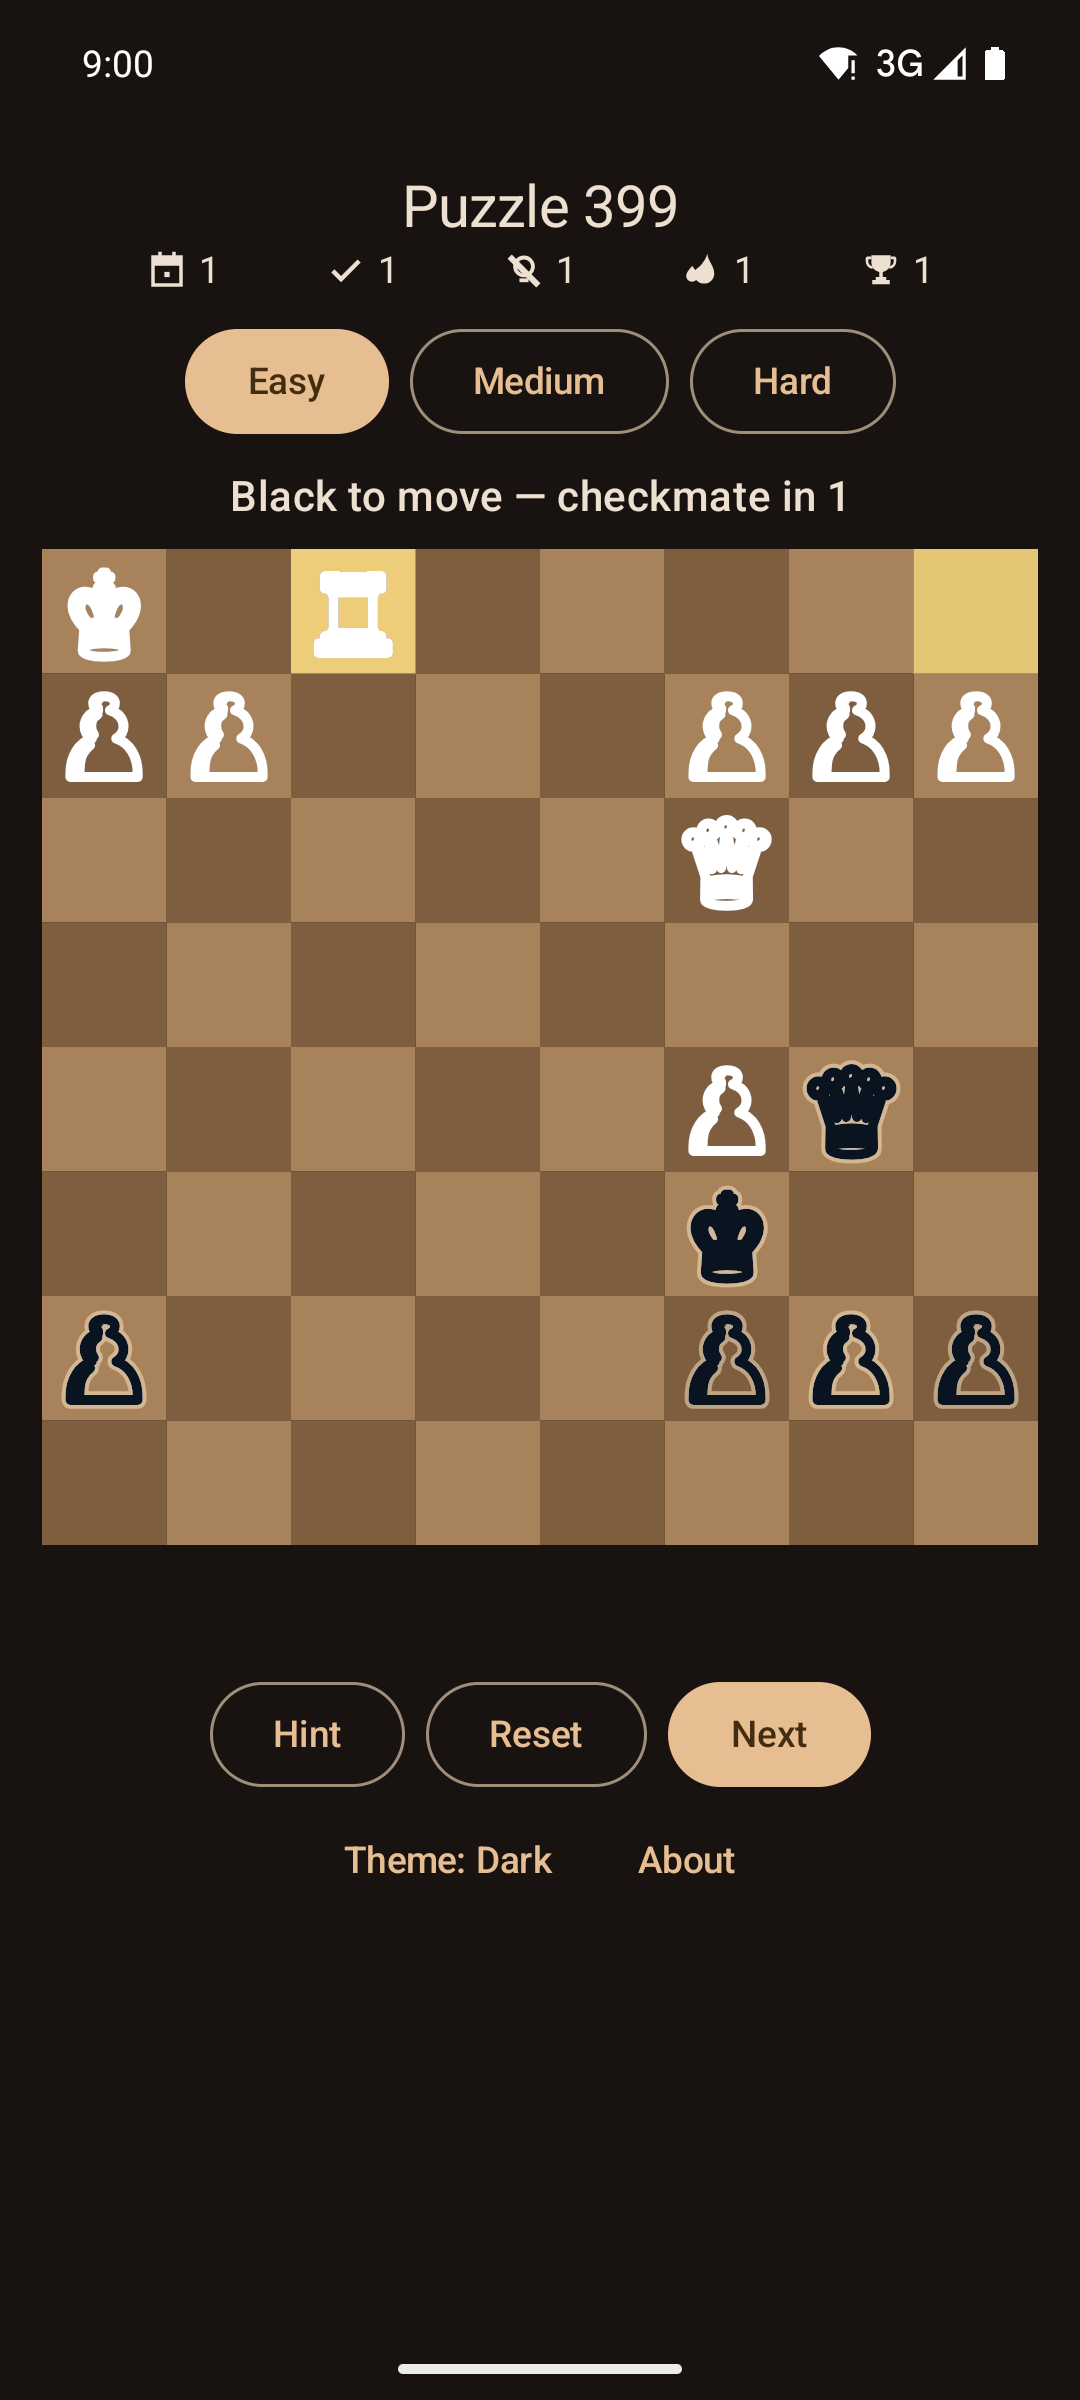
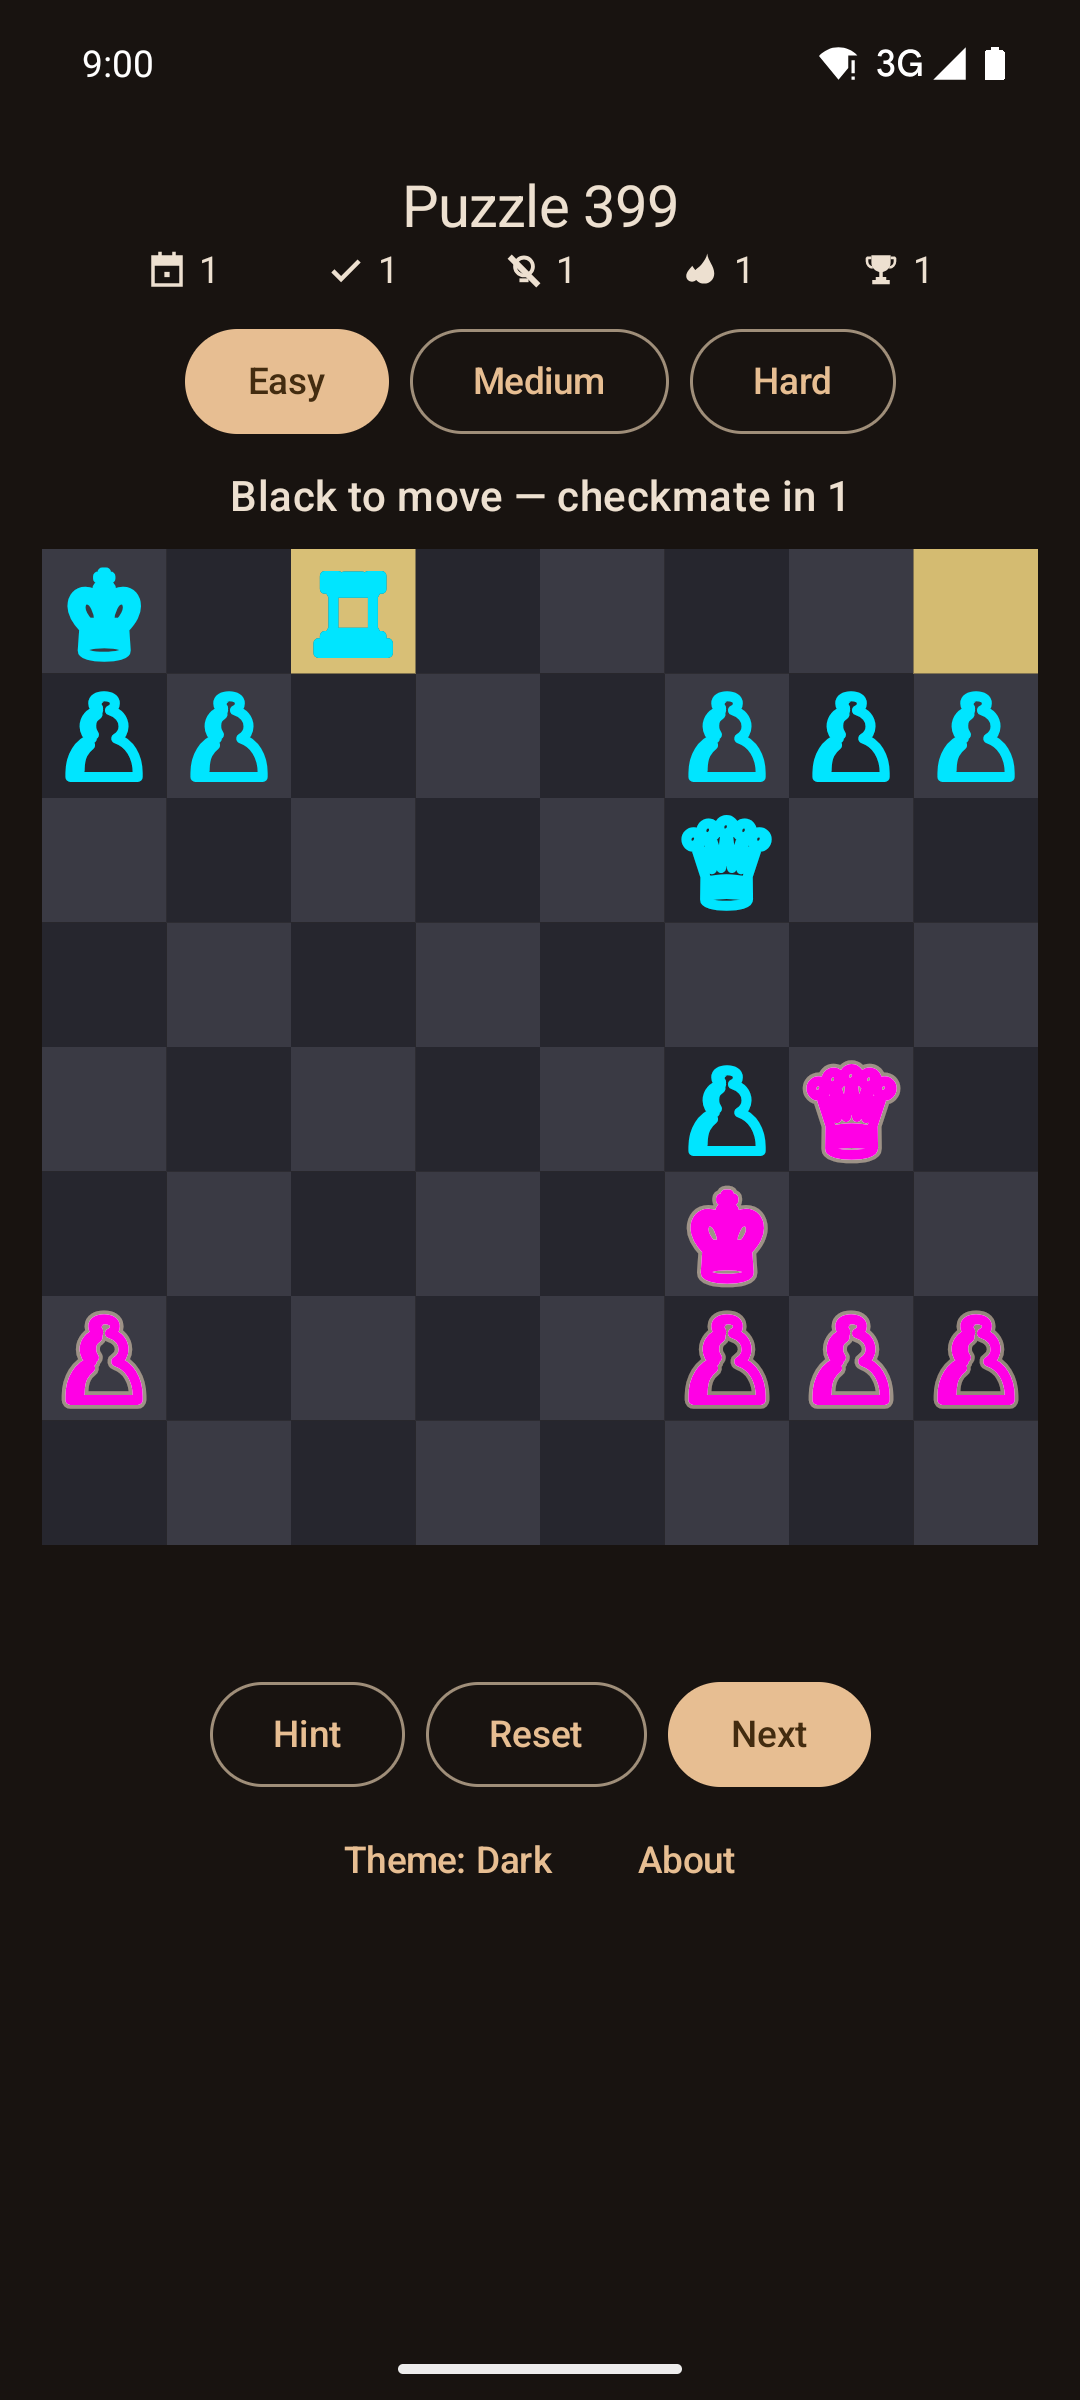
feat: neon pieces on a slate board (#44)
Cyan and magenta instead of white and near-black, which is what "catch my
attention" was actually asking for. The board goes neutral to let them work:
on walnut, magenta landed on the wood's own luminance at 1.04:1, and the warm
brown fought both hues.

  pieces  #F2E6D0 -> #00E5FF cyan      (was pure white before that)
          #0A1420 -> #FF00E5 magenta
  day     #B08A61/#8A6844 -> #5A5A66/#45454F
  night   #A8825A/#7E5E3E -> #3A3A44/#26262E

  cyan     4.4-6.2:1 day, 7.3-9.8:1 night
  magenta  2.1-2.9:1 day, 3.4-4.6:1 night
  the two sides, from each other: 2.14:1

The neon set buys its separation from chroma as much as luminance, so it cannot
hold the 3:1 non-text bar a near-black set could. The test now gates every
piece/square pair at 2:1 (worst: magenta on the day light square, 2.07:1) and
adds a floor between the two piece colours, so the sides stay tellable apart.

Both tint sets became light overlays: a dark wash vanishes on these squares —
the deep-indigo hint and black marker measured 1.09:1 and 1.21:1 — so the hint
is a pale lavender and the marker a white scrim.

Screenshots and og.png regenerated.

diff --git a/app/src/main/java/dk/cocode/chess/ui/board/BoardPalette.kt b/app/src/main/java/dk/cocode/chess/ui/board/BoardPalette.kt
@@ -20,18 +20,21 @@ data class BoardPalette(
 )
 
 /**
- * Walnut wood, tuned for daylight. The squares sit in a narrow mid band rather than spanning
- * light-to-dark: a square at luminance 0.19 is equidistant from both piece colours, so pulling them
- * in is what lets white AND ink clear 3:1 at once. It costs checker contrast (2.69 -> 1.61:1), which
- * the eye reads easily anyway from the grid.
+ * Neutral slate for daylight. The board is deliberately colourless: the pieces are neon
+ * ([PIECE_WHITE], [PIECE_DARK]) and any warmth in the squares competes with them — on the walnut
+ * board this replaced, magenta landed on the wood's own luminance at 1.04:1.
+ *
+ * Both squares sit low so the neon reads by luminance as well as chroma: cyan 4.4-6.2:1, magenta
+ * 2.1-2.9:1. The checker step is small (1.39:1) because widening it would push one square back up
+ * into the magenta.
  */
 val DayBoardPalette = BoardPalette(
-    lightSquare = Color(0xFFB08A61),
-    darkSquare = Color(0xFF8A6844),
+    lightSquare = Color(0xFF5A5A66),
+    darkSquare = Color(0xFF45454F),
     selectedTint = Color(0xE0A5E4FF),
     lastMoveTint = Color(0xCCFFE082),
-    hintTint = Color(0xCC1A237E),
-    marker = Color(0x73000000),
+    hintTint = Color(0xCCD0A5FF),
+    marker = Color(0x8CFFFFFF),
     darkPieceOutline = Color(0xFFEDEDED),
     pieceOutlineWidth = 0.07f,
     darkPieceHalo = Color.Transparent,
@@ -39,21 +42,20 @@ val DayBoardPalette = BoardPalette(
 )
 
 /**
- * The same narrow band as day, shifted one step down for a dark room. Dimming it further is what
- * used to bury the pieces: against a deep dark square a #0A1420 fill managed only 1.5-2:1, so the
- * rim and aura had to carry the whole silhouette.
+ * The same slate dropped for a dark room, where the neon has the most to work with: cyan reaches
+ * 7.3-9.8:1 and magenta 3.4-4.6:1.
  *
- * Both boards being mid-tone, the tints are shared: a mid-hue wash (the old #03A9F4 at 40-53%)
- * lands on the squares' own luminance and vanishes — 1.0:1 — so each tint is pushed to an extreme,
- * pale or deep, at high alpha. Every one clears 2:1 on all four squares.
+ * Both tint sets are light overlays. A dark wash is invisible here — the old deep-indigo hint and
+ * black marker measured 1.09:1 and 1.21:1 on these squares — so the hint is a pale lavender and the
+ * marker a white scrim, each kept off the selection's pale blue by hue.
  */
 val NightBoardPalette = BoardPalette(
-    lightSquare = Color(0xFFA8825A),
-    darkSquare = Color(0xFF7E5E3E),
+    lightSquare = Color(0xFF3A3A44),
+    darkSquare = Color(0xFF26262E),
     selectedTint = Color(0xE0A5E4FF),
     lastMoveTint = Color(0xCCFFE082),
-    hintTint = Color(0xCC1A237E),
-    marker = Color(0x73000000),
+    hintTint = Color(0xCCD0A5FF),
+    marker = Color(0x8CFFFFFF),
     darkPieceOutline = Color(0xFFFAFAFA),
     pieceOutlineWidth = 0.08f,
     darkPieceHalo = Color(0x80FFE9C8),

diff --git a/app/src/test/java/dk/cocode/chess/ui/board/BoardPaletteTest.kt b/app/src/test/java/dk/cocode/chess/ui/board/BoardPaletteTest.kt
@@ -8,7 +8,7 @@ import org.junit.Test
 
 class BoardPaletteTest {
     @Test fun nightRimIsThickerAndBrighterThanDay() {
-        // A dark fill is only ~2:1 against the night dark square, so the rim carries the piece.
+        // The rim is what separates a neon glyph from a square close to it in luminance.
         assertTrue(NightBoardPalette.pieceOutlineWidth > DayBoardPalette.pieceOutlineWidth)
         assertNotEquals(DayBoardPalette.darkPieceOutline, NightBoardPalette.darkPieceOutline)
     }
@@ -25,16 +25,19 @@ class BoardPaletteTest {
     }
 
     /**
-     * The squares sit in a narrow mid band so that BOTH piece colours clear the WCAG 3:1 bar for
-     * non-text on the square each one is worst against — ink on dark, white on light. Widening the
-     * band (a lighter light square, or a deeper dark one) buys checker contrast by sinking a piece
-     * colour into the wood, which is exactly what this guards.
+     * The neon set buys its separation from chroma as much as luminance, so it cannot hold the 3:1
+     * non-text bar a near-black set could. What it must hold is a floor on EVERY piece/square pair
+     * — the worst is magenta on the day light square at 2.07:1 — and enough distance between the
+     * two sides that they stay tellable apart at a glance.
      */
-    @Test fun bothPieceColoursStayLegibleOnTheSquaresTheySitOn() {
-        assertTrue(contrast(PIECE_DARK, DayBoardPalette.darkSquare) > 3f)
-        assertTrue(contrast(PIECE_DARK, NightBoardPalette.darkSquare) > 3f)
-        assertTrue(contrast(PIECE_WHITE, DayBoardPalette.lightSquare) > 3f)
-        assertTrue(contrast(PIECE_WHITE, NightBoardPalette.lightSquare) > 3f)
+    @Test fun everyPieceSquarePairStaysSeparable() {
+        for (palette in listOf(DayBoardPalette, NightBoardPalette)) {
+            for (piece in listOf(PIECE_WHITE, PIECE_DARK)) {
+                assertTrue(contrast(piece, palette.lightSquare) > 2f)
+                assertTrue(contrast(piece, palette.darkSquare) > 2f)
+            }
+        }
+        assertTrue(contrast(PIECE_WHITE, PIECE_DARK) > 2f) // the two sides, from each other
     }
 
     /** WCAG contrast ratio between two opaque colors. */

diff --git a/app/src/main/java/dk/cocode/chess/ui/board/BoardDrawing.kt b/app/src/main/java/dk/cocode/chess/ui/board/BoardDrawing.kt
@@ -13,9 +13,11 @@ import androidx.compose.ui.text.drawText
 import dk.cocode.chess.core.model.Square
 import dk.cocode.chess.viewmodel.PuzzleUiState
 
-internal val PIECE_WHITE = Color.White
-// Cool ink rather than neutral black: at equal luminance it separates by hue from the warm wood.
-internal val PIECE_DARK = Color(0xFF0A1420)
+// Neon on slate. The board is neutral so these two carry all the colour; the light side is the
+// brighter of the pair (cyan 4.4-9.8:1 against the squares), the dark side magenta (2.1-4.6:1),
+// which reads as much by chroma against the grey as by luminance.
+internal val PIECE_WHITE = Color(0xFF00E5FF)
+internal val PIECE_DARK = Color(0xFFFF00E5)
 internal val PIECE_WHITE_OUTLINE = Color(0xFF2B2B2B)
 
 internal fun DrawScope.drawSquares(palette: BoardPalette, squarePx: Float, flipped: Boolean) {
